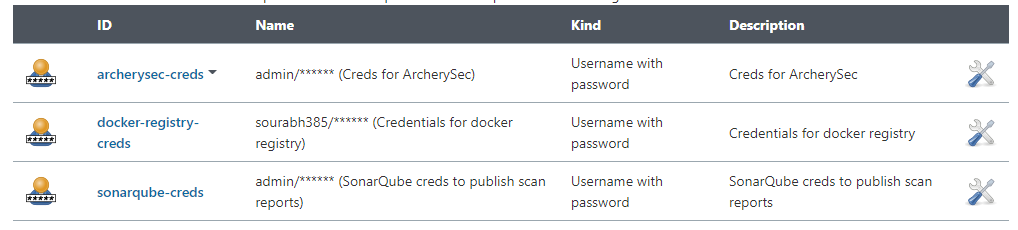
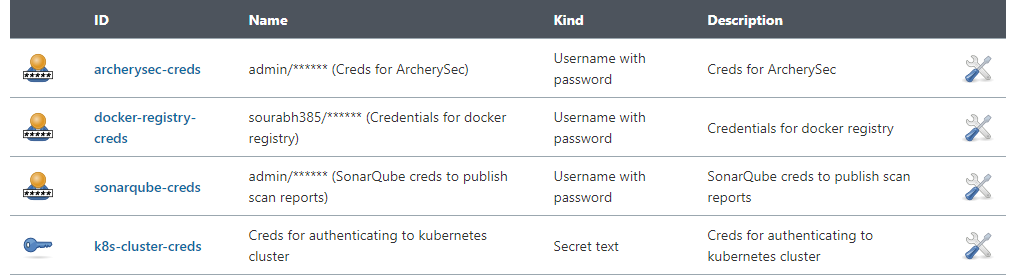
added docs

diff --git a/demo/README.md b/demo/README.md
@@ -4,19 +4,46 @@
 - SonarQube Server
 - [OWASP Dependency-Check Plugin](https://plugins.jenkins.io/dependency-check-jenkins-plugin) installed in Jenkins
 - To build images using Buildah, you need to create one service account and you need to assign it the ability to run as the standard anyuid [SCC](https://docs.openshift.com/container-platform/4.3/authentication/managing-security-context-constraints.html) (See setup below)
+- You need authentication to kubernetes cluster (See setup below)
 - You need authentication to publish scan reports to SonarQube (See setup below)
 - You need authentication to publish scan reports to ArcherySec (See setup below)
 - You need authentication to push images to registry and also to pull images for slave pods (See setup below)
+
 
 ## Setup
 
 #### Buildah Setup
 ```
-oc create sa buildah-sa
+$ oc create sa buildah-sa
 
-oc adm policy add-scc-to-user anyuid -z buildah-sa
+$ oc adm policy add-scc-to-user anyuid -z buildah-sa
 ```
 
+#### Kubernetes Cluster Authentication
+
+###### Generating Kubernetes credentials
+
+The following example describes how you could use the token of a ServiceAccount to access the Kubernetes cluster from Jenkins. The result depends of course on the permissions you have.
+
+Create a ServiceAccount named `jenkins-robot` in a given namespace.
+```
+$ kubectl -n <namespace> create serviceaccount jenkins-robot
+
+# The next line gives `jenkins-robot` administator permissions for this namespace.
+# * You can make it an admin over all namespaces by creating a `ClusterRoleBinding` instead of a `RoleBinding`.
+# * You can also give it different permissions by binding it to a different `(Cluster)Role`.
+$ kubectl -n <namespace> create rolebinding jenkins-robot-binding --clusterrole=cluster-admin --serviceaccount=<namespace>:jenkins-robot
+
+# Get the name of the token that was automatically generated for the ServiceAccount `jenkins-robot`.
+$ kubectl -n <namespace> get serviceaccount jenkins-robot -o go-template --template='{{range .secrets}}{{.name}}{{"\n"}}{{end}}'
+jenkins-robot-token-d6d8z
+
+# Retrieve the token and decode it using base64.
+$ kubectl -n <namespace> get secrets jenkins-robot-token-d6d8z -o go-template --template '{{index .data "token"}}' | base64 -d
+eyJhbGciOiJSUzI1NiIsImtpZCI6IiJ9.eyJpc3MiOiJrdWJlcm5ldGVzL3NlcnZpY2V[...]
+```
+
+On Jenkins, navigate in the folder you want to add the token in, or go on the main page. Then click on the "Credentials" item in the left menu and find or create the "Domain" you want. Finally, paste your token into a Secret text credential. The ID is the credentialsId you need to use in the plugin configuration.
 
 #### Authentication
 
